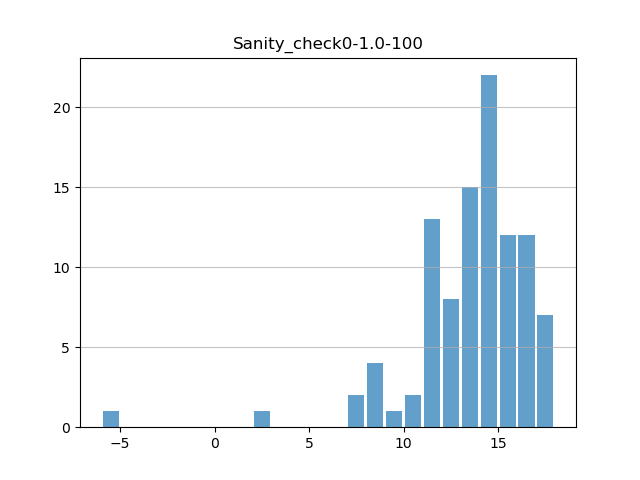
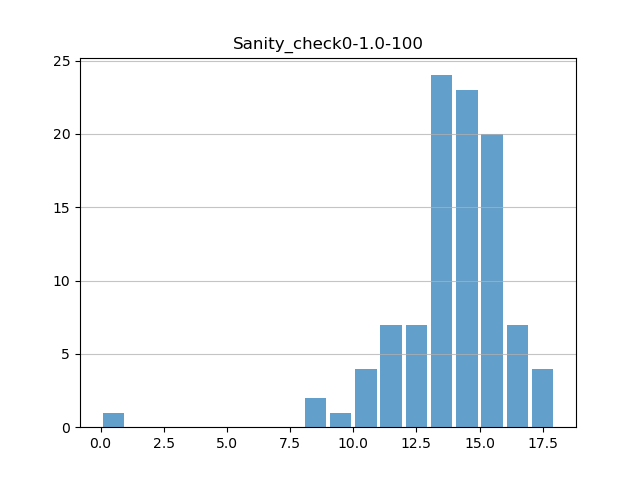
done

diff --git a/assignment_v0.5_policy.py b/assignment_v0.5_policy.py
@@ -1,0 +1,140 @@
+from abc import ABC, abstractmethod
+from dice_game import DiceGame
+import numpy as np
+
+
+
+class DiceGameAgent(ABC):
+    def __init__(self, game):
+        self.game = game
+    
+    @abstractmethod
+    def play(self, state):
+        pass
+
+
+class AlwaysHold(DiceGameAgent):
+    def play(self, state):
+        return (0, 1, 2)
+
+
+class PerfectionistAgent(DiceGameAgent):
+    def play(self, state):
+        if state == (1, 1, 1) or state == (1, 1, 6):
+            return (0, 1, 2)
+        else:
+            return ()
+
+###############################################################
+class MyAgent(DiceGameAgent):
+    def __init__(self, game): 
+        super().__init__(game)
+        self.gamma = 1
+        
+        possible_action = self.game.actions
+        possible_states = self.game.states
+        self.policy = {}
+        derived_states = {}
+        
+        # initialise the policy
+        for each_state in possible_states:
+            self.policy[each_state] = [0, possible_action[-1]]
+            for action in possible_action:
+                derived_states[(action, each_state)] = self.game.get_next_states(action, each_state)
+
+        while 1:
+            convergence = 1  # hopefully
+            for each_state in possible_states:
+                max_val, old_act = self.policy[each_state]
+                max_act = old_act  # in case no new value exceed the old
+                
+                for action in possible_action:
+                    new_val = 0
+                    (state_dashes, flag, reward, probability)  = derived_states[(action, each_state)]
+                    for index, each_probability in enumerate(probability):
+                        if not flag:
+                            state_dash = state_dashes[index]
+                            new_val += each_probability * (reward + self.gamma * self.policy[state_dash][0])
+                        else:
+                            new_val += each_probability * (reward)
+                    if new_val > max_val:
+                        max_val = new_val
+                        max_act = action        # this is the hybrid stage of argmax
+                self.policy[each_state] = [max_val, max_act]  # put back same val or new one
+                if self.policy[each_state][1] != old_act:
+                    convergence = 0  # need to try again
+            if convergence:
+                break
+
+    def play(self, state):
+        return self.policy[state][1]
+
+##############################################################
+        
+def play_game_with_agent(agent, game, verbose=False):
+    state = game.reset()
+    
+    if(verbose): print(f"Testing agent: \n\t{type(agent).__name__}")
+    if(verbose): print(f"Starting dice: \n\t{state}\n")
+    start_state = state
+        
+    game_over = False
+    actions = 0
+    while not game_over:
+        action = agent.play(state)  # make a move based on the state
+        actions += 1  # count how many moves
+        
+        if(verbose): print(f"Action {actions}: \t{action}")
+        _, state, game_over = game.roll(action)
+        if(verbose and not game_over): print(f"Dice: \t\t{state}")
+
+    if(verbose): print(f"Start state: {start_state}, \t{type(agent).__name__}, \tFinal dice: {state}, score: {game.score}") 
+        
+    return game.score
+
+
+def main():
+    # random seed makes the results deterministic
+    # change the number to see different results
+    #  or delete the line to make it change each time it is run
+    from scipy.stats import skew
+    
+    a=[100, 10000, 1000000]
+    #a=[10]
+
+    games = [DiceGame(),
+             DiceGame(dice=5, sides=8),
+             DiceGame(dice=6, sides=5),
+             DiceGame(dice=3, sides=6, penalty=5),
+             DiceGame(dice=2, sides=4, values=[-50, -25, -2, 5], bias = [0.1, 0.1, 0.1, 0.7])]
+    gammas=[1.0]
+    #gammas=[-1]
+    
+    print("game", "\t", "gamma",  "\t", "cycle",  "\t", "min",  "\t", "max",  "\t", "avgerage  ", "\t", "time   ", "\t", "loops", "\t", "skew")          
+    for game_id, game in enumerate(games):
+        for cycle in a:
+                for gamma in gammas:
+                    result=[]
+                    np.random.seed(3)
+                    #game = DiceGame()
+                    #game = DiceGame(sides=4, dice=2, values=[-50, -25, -5, -2], bias = [0.1, 0.1, 0.1, 0.7], penalty=0)
+                    agent2 = MyAgent(game)
+
+                    
+                    for i in range(cycle):
+                        result.append(play_game_with_agent(agent2, game, verbose=False))
+                    print(game_id, "\t",gamma, "\t", cycle,  "\t", min(result),  "\t", max(result),  "\t", np.average(result), "\t", skew(result))
+                    
+                    #for state in game.states:
+                        #print(agent2.policy)
+                    
+                    import matplotlib.pyplot as plt
+                    plt.grid(axis='y', alpha=0.75)
+                    plt.hist(result, bins=(max(result)-min(result)), alpha=0.7, rwidth=0.85)
+                    title  = "Sanity_check" + str(game_id) + "-" + str(gamma) + "-" + str(cycle)
+                    file = "images/" + title + ".png"
+                    plt.title(title)
+                    plt.savefig(file)
+                    plt.clf()
+if __name__ == "__main__":
+    main()

diff --git a/readme.md b/readme.md
@@ -1,8 +1,8 @@
 # Summary  
 
-The activity scope was to develop an AI agent for a given dice game for which the game parameters can be varied (number of dice, dice sides, side values, bias, and penalty for re-rolling). The permutation of the dice states are fixed for a given game. This sort of game could be modelled as a Markov decision process since the choice of actions need only be decided based on the current state and not how that state was achieved. There are two common ways of solving this problem - value iteration and policy iteration. Since it was known that this agent would be tested with different game parameters, an agent that converged in fewer iterations was selected - and that is the policy iteration method (Norving and Russel, 2010; Sutton and Barto, 2018; Abbeel, 2012).  While it was proven to be the case that policy iteration can converge sooner, it was also found that under some conditions (games with relatively low states - such as the default 3 dice game) value-iterations produced a higher average score. This phenomena could not be definitely resolved, but is likely due to the conscious decision of selecting gamma=1 for a game that such a value might not be appropriate. This is since, gamma=1 is not appropriate for a game that can have an infinite iteration (or an inifinite-time-horizon) due to the lack of terminating states. The reason this can be allowed is due to the fact that the certainty (probability of 1.0) of holding (which is a terminating action) will beat the odds-reward potential (and thus also the value) of rolling again. Since policy iteration causes fewer iterations than that of value iteration this has a similar effect to reducing the far-sightedness of the agent.  
+The activity scope was to develop an AI agent for a given dice game for which the game parameters can be varied (number of dice, dice sides, side values, bias, and penalty for re-rolling). The permutation of the dice states are fixed for a given game. This sort of game could be modelled as a Markov decision process since the choice of actions need only be decided based on the current state and not how that state was achieved. There are two common ways of solving this problem - value iteration and policy iteration. Since it was known that this agent would be tested with different game parameters, an agent that converged in fewer iterations was selected - and that is the policy iteration method (Norving and Russel, 2010; Sutton and Barto, 2018; Abbeel, 2012).  While it was proven to be the case that policy iteration can converge sooner, it was also found that under some conditions (games with relatively low states - such as the default 3 dice game) value-iterations produced a higher average score. This phenomenon could not be definitely resolved, but is likely due to the conscious decision of selecting gamma=1 for a game that such a value might not be appropriate. This is since, gamma=1 is not appropriate for a game that can have an infinite iteration (or an inifinite-time-horizon) due to the lack of terminating states. This was allowed since certainty (probability of 1.0) of holding (which is a terminating action) will beat the odds-reward potential (and thus also the value) of rolling again and thus terminating by the terminating action. Since policy iteration causes fewer iterations than that of value iteration this has a similar effect to reducing the far-sightedness of the agent.  
 
-The proposed agent was deemed sufficient because it can produce comparable or equal results over a large number of runs. This is while being able to tackle more complex game settings without having to pre-determine an appropriate theta setting.
+The proposed agent was deemed sufficient because it can produce comparable or equal results over a large quantity (1 million) of game rounds. This is still while being able to tackle more complex game settings without having to pre-determine an appropriate theta setting.
 
 
 # 1. Introduction
@@ -15,7 +15,7 @@ In literature there are two popular methods proposed for converging towards a so
 
 # 2. Design Choices and Justification
 Several considerations and tests to validate the final choice of agent was made. The agent was tested against several game scenarios described in the appendix. For comparison reasons a random agent was also included for comparisons in some of the following data.  
-All tests are conducted with the same seed value of 1.
+All tests are conducted with the same seed value of at the start of game configuration listed in the appendix.
 
 ## 2.1 Validation of Gamma=1
 
@@ -62,8 +62,8 @@ Table 3: Game 2 (Both at Gamma = 1 and for value iteration Theta = 1E-5)
 
 These results suggested that policy-iteration is a reasonable choice to ensure scalability without a pre-set parameter theta (which influence construction time on different cases). However in actual fact, it could be that policy-iteration is not the perfect method, since they produce different policies which produce detectable differences on the default game, but not on more complex ones.
 
-Considering that this game does not have terminating states, then this game could have an infinite-time-horizon (or an infinite iteration utility). It is not meant to be allowed to set gamma to 1 for problems that have an infinite-time-horizon. The decision to ignore this, is based on the fact that this game does have a terminating action that should become more advantegous than rolling again for some states. Thus, with gamma set to 1, the values might not converge except to some resolution of accuracy.
-For complex games, the probability to arriving to any of the states each is lower, and so iterative effect on value results in a lower decimal point value. Perhaps due to floating point limitations (or the theta) setting, the values in value iteration "seem" to converge sooner. In case of policy-iteration the iteration is exited earlier, because it assumes that values will only continue to converge (and not oscillate) which is likely to be the case when gamma < 1. However for complex games, and lower probabilities, policy-iteration and value-iteration likely converge to the same policy due to the floating point limit being the limiting factor (rather than the true mathematical value).
+Considering that this game does not have terminating states, then this game could have an infinite-time-horizon (or an infinite iteration utility). It is not meant to be allowed to set gamma to 1 for problems that have an infinite-time-horizon. The decision to ignore this, is due to existence of terminating action with a probability of 1.0, that should become more advantegous than rolling again for some states. Thus, with gamma set unintuitively to 1.  
+For complex games, the probability to arriving to any of the states each is lower, and so iterative effect on value results in a lower decimal point value. Perhaps due to floating point limitations (or the theta) setting, the values in value iteration "seem" to converge sooner. In case of policy-iteration the iteration is exited earlier, because it assumes that values will only continue to converge (and not oscillate) which is likely to be the case when gamma < 1. For complex games, and thus lower probabilities ratios - policy-iteration and value-iteration are more likely to converge to the same policy due to the floating point limit being the limiting factor (rather than the true mathematical value).
 
 
 ![Theta Indifference](data/policy_vs_value_w_diff_theta.png)  
@@ -74,11 +74,11 @@ Choosing a lower theta such as 0.001 (which gives a better chance at convergence
 ## 2.3 Histogram Comparison
 The final check is more of a sanity check rather than an object validation. That is to look at the histogram of values. A superior agent should have a higher average score that of a random agent, with a distribution skewed to the right (in case of a tail, the tail ought to be on the lower score side).
 
-Looking at the histogram from a equally seeded game0 run over 100 game rounds there is a significant different visible on the historgram. clearly proving that these policies are not identical.  
+Looking at the histogram from an equally seeded game0 run over 100 game rounds there is a significant different visible on the historgram. clearly proving that these policies are not identical.  
 
 ![Theta Indifference](data/Value_versus_policy0-1.0-100.png)  
 
-For the same game run for 1 million rounds comparison of value and policy iteration, the difference is less pronounced but noticable for the same game0, there is a detectable difference as shown in the following graph.  The value iteration has a slightly superio skew value of -1.325, whereas the policy iteration has a skew value of -1.336. However, what is interesting is that the score 13, 14 (the mode value) and 15 are more frequent with policy based iteration, while only the value 16 and 17 are slighly less frequent.  
+For the same game run for 1 million rounds comparison of value and policy iteration, the difference is less pronounced but noticable for the same game0, there is a detectable difference as shown in the following graph.  The value iteration has a slightly superio skew value of -1.325, whereas the policy iteration has a skew value of -1.336. However, what is interesting is that the score 13, 14 (the mode value) and 15 are more frequent with policy-based iteration, while only the value 16 and 17 are slighly less frequent.  
 
 ![Theta Indifference](data/Value_versus_policy0-1.0-1000000.png)  
 (Narrow/Orange is the policy-iteration, Wide/Blue is the value iteration)
@@ -111,7 +111,7 @@ Therefore it was pre-loaded into a dictionary with the following simple for-loop
 All values are iterated if the policy of any state has not converged (to avoid an additional if-statement for each iteration for each state for action pair).  
   
 # 4. Conclusion
-The final proposed agent is a balanced agent in the sense that it can produce comparable or equal results over a large number of runs, when compared to agent utilising value-iteration agent with a very low theta setting. How it will perform in a specific game, will truly depend on the roll of the dice handed.
+The final proposed agent is a balanced agent in the sense that it can produce comparable or equal results over a large game (around 1 million) rounds, when compared to agent utilising value-iteration agent with a very low theta setting. How it will perform in a specific game, will truly depend on the roll of the dice handed.
 
 
 # Reference List
